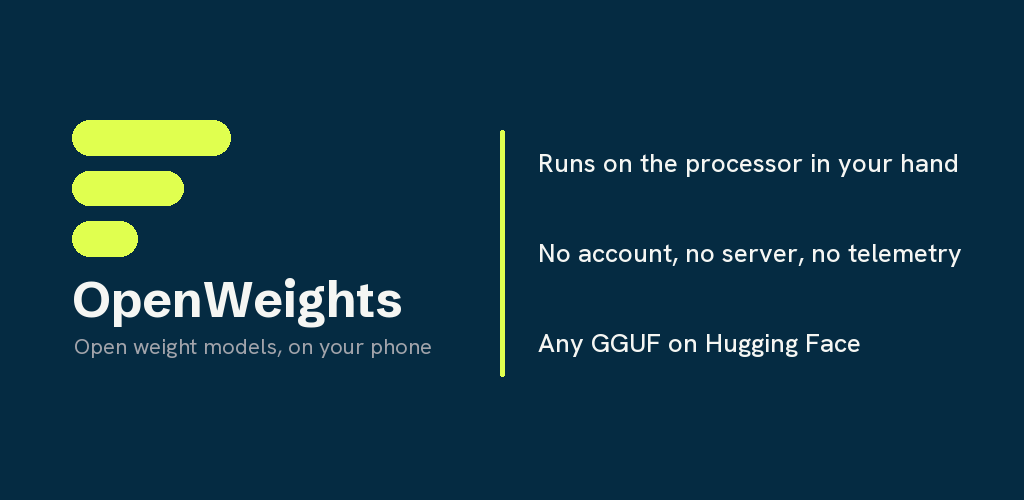
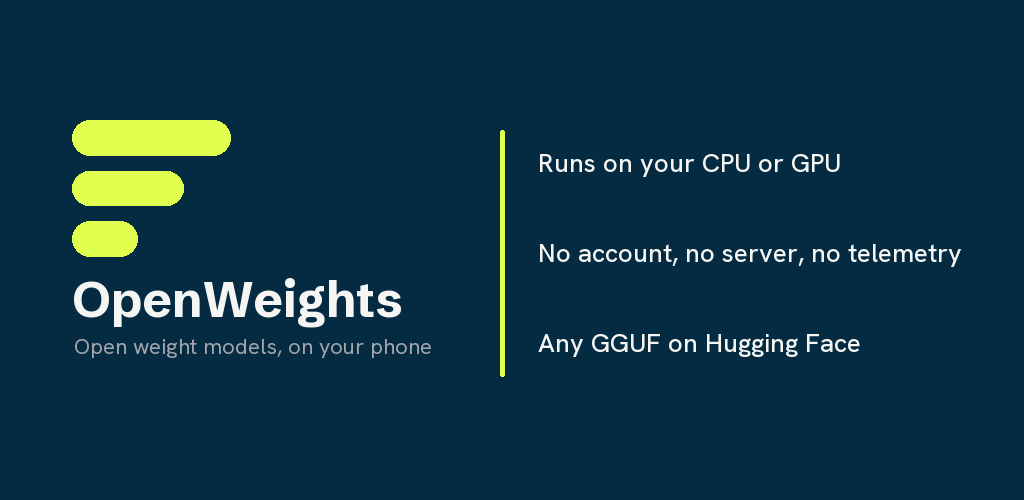
Say which processor, not which hand
The feature graphic's first claim read "Runs on the processor in your hand",
which is a line about owning a phone rather than about anything this app does,
and it sat two inches from a subtitle already saying "on your phone". It now
says "Runs on your CPU or GPU", which is the same claim made specifically and is
one the app can be held to: the top bar names the backend the weights actually
landed in, and the sampler sheet moves them.

"or" rather than "and", deliberately. Layers go to one processor or the other
and never to both at once, which is the distinction a week of measurement on two
Snapdragons was about, and a graphic that implied otherwise would be the first
thing this project got wrong in public.

Changed region(s): [[0.625, 0.3, 0.9375, 0.36]]

diff --git a/play/graphics/mark.py b/play/graphics/mark.py
@@ -96,8 +96,17 @@ def feature_graphic() -> None:
     # The spine sits at 500 rather than at the halfway line: the claims are the longer
     # column and running them past 1000 is how the first pass lost the end of two of them.
     draw.rounded_rectangle([500, 130, 504, 376], radius=2, fill=LIME)
+    # The first line has to say where the work happens without repeating the subtitle two
+    # inches to its left, which already says "on your phone". Naming the processor is what
+    # does that, and it is also the one the app can be held to: the top bar says CPU or
+    # OPENCL for the model in memory, and the sampler sheet lets you move it.
+    #
+    # It read "Runs on the processor in your hand", which is a phrase about a phone rather
+    # than about this app, and is the sort of line that sounds like a claim while making
+    # none. "or" rather than "and": layers go to one or the other, never to both at once,
+    # and that is a distinction this project spent a week measuring.
     claims = [
-        "Runs on the processor in your hand",
+        "Runs on your CPU or GPU",
         "No account, no server, no telemetry",
         "Any GGUF on Hugging Face",
     ]
